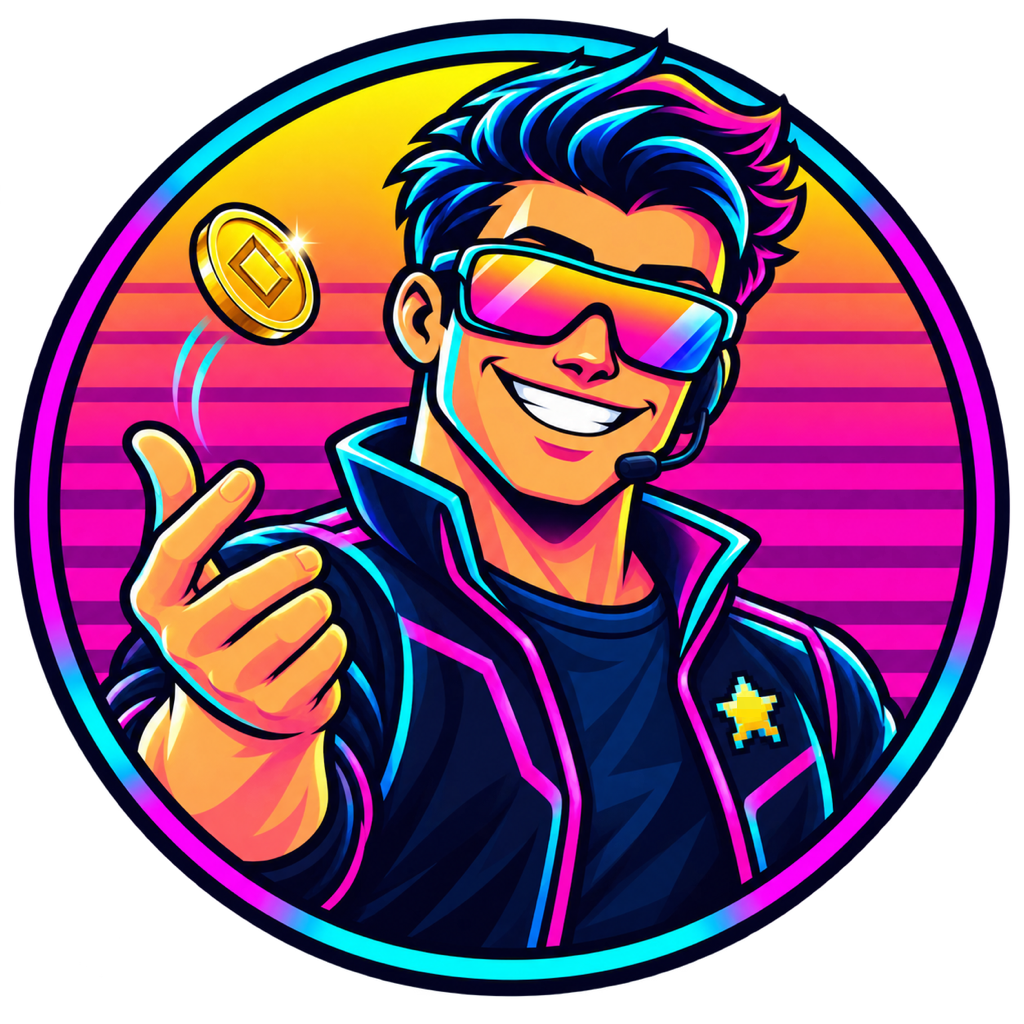
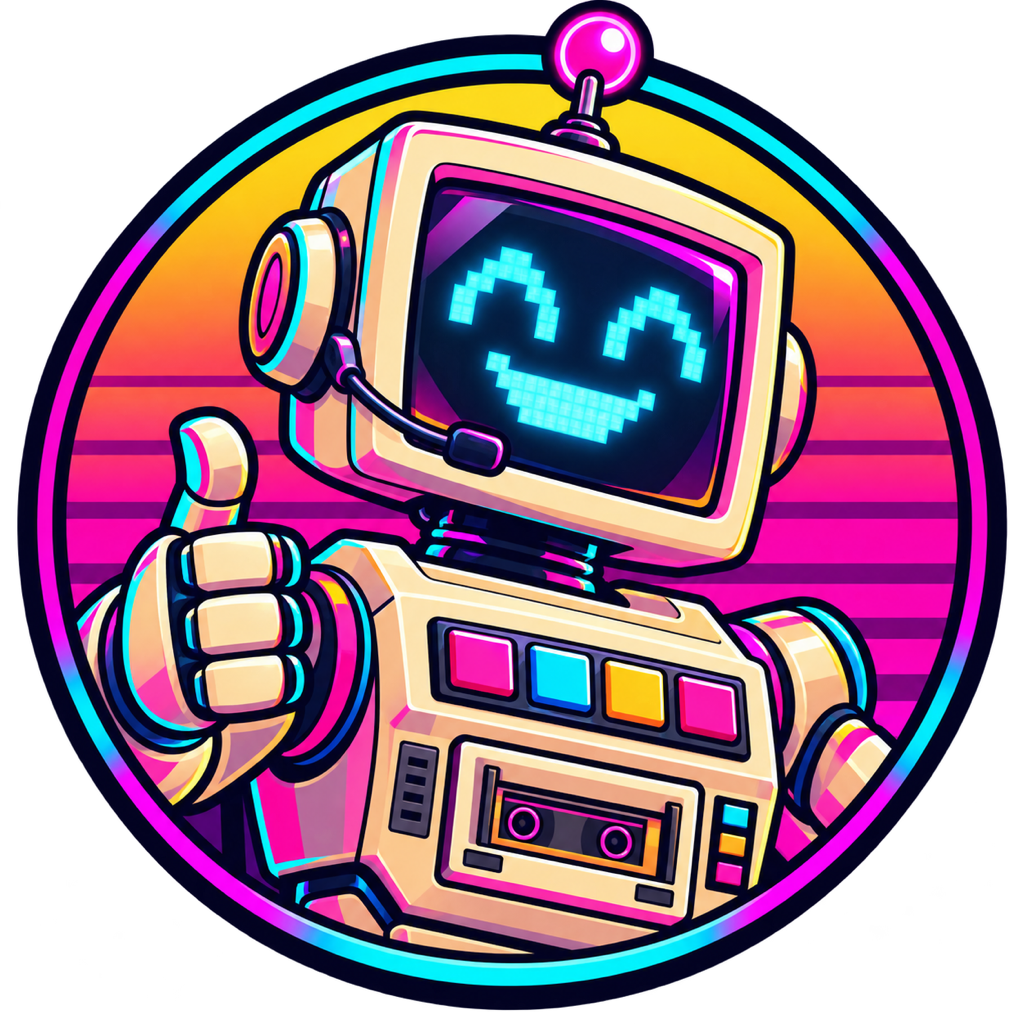
feat(gtmgym): the game master is a robot
CRT-head 80s toy robot (our own design), reads at avatar size and
makes it obvious the host is the AI, not a sixth coach.

diff --git a/components/gym/gym-coach-select.tsx b/components/gym/gym-coach-select.tsx
@@ -52,18 +52,18 @@ export function GymSecretCoach() {
     >
       {secret ? (
         <>
-          <Image src="/gym/game/game-master.webp" alt="The Game Master" width={120} height={120} className="h-20 w-20 md:h-24 md:w-24 shrink-0" />
+          <Image src="/gym/game/game-master-bot.webp" alt="The Game Master" width={120} height={120} className="h-20 w-20 md:h-24 md:w-24 shrink-0" />
           <div className="min-w-0 flex-1">
             <p className="font-osd text-[17px] leading-none text-[var(--gym-yellow)]">SECRET CHARACTER UNLOCKED</p>
             <h3 className="mt-1.5 font-display text-[17px] md:text-[20px] uppercase leading-tight">The Game Master</h3>
             <p className="mt-1 text-[13.5px] leading-relaxed text-muted-foreground max-w-[62ch]">
-              The AI host. Has watched every minute of every session, never sleeps, never gloats, and always shows you the tape.
+              The AI host, a robot. Has watched every minute of every session, never sleeps, never gloats, and always shows you the tape.
             </p>
           </div>
           <div className="hidden md:block w-[220px] space-y-1.5 shrink-0">
             <StatBar label="Recall" value={5} tone="yellow" />
             <StatBar label="Citations" value={5} tone="yellow" />
-            <StatBar label="Trash talk" value={0} tone="yellow" />
+            <StatBar label="Beeps" value={4} tone="yellow" />
           </div>
         </>
       ) : (

diff --git a/components/gym/gym-ask-hero.tsx b/components/gym/gym-ask-hero.tsx
@@ -144,7 +144,7 @@ export function GymAskHero({ sessions, hours, onAsk }: GymAskHeroProps) {
       <div className="relative z-10 flex items-end gap-3 mb-4 md:mb-5 motion-safe:animate-in motion-safe:fade-in motion-safe:slide-in-from-bottom-2 motion-safe:duration-500">
         <div className="relative shrink-0">
           <Image
-            src="/gym/game/game-master.webp"
+            src="/gym/game/game-master-bot.webp"
             alt="The GTM Game master"
             width={76}
             height={76}

diff --git a/components/gym/gym-plan.tsx b/components/gym/gym-plan.tsx
@@ -400,7 +400,7 @@ function GymSet({
       <div className="rounded-[calc(1.1rem-2px)] bg-[var(--gym-night-2)] p-4 md:p-5">
         <div className="flex items-center gap-2.5 mb-2">
           <Image
-            src={coach ? `/gym/game/cast/${coach.slug}.webp` : "/gym/game/game-master.webp"}
+            src={coach ? `/gym/game/cast/${coach.slug}.webp` : "/gym/game/game-master-bot.webp"}
             alt=""
             width={32}
             height={32}

diff --git a/app/(print)/plan/[conversationId]/page.tsx b/app/(print)/plan/[conversationId]/page.tsx
@@ -277,7 +277,7 @@ export default async function PlanPage({
           </div>
           <div className="flex items-center gap-3">
             <Image
-              src={coach ? `/gym/game/cast/${coach.slug}.webp` : "/gym/game/game-master.webp"}
+              src={coach ? `/gym/game/cast/${coach.slug}.webp` : "/gym/game/game-master-bot.webp"}
               alt=""
               width={56}
               height={56}

diff --git a/app/(default)/og/route.tsx b/app/(default)/og/route.tsx
@@ -323,7 +323,7 @@ export async function GET(request: Request) {
     loadGoogleFont("Space Grotesk", text, 500),
     loadGoogleFont("VT323", text),
     loadImage(`${origin}/gym/game/logo-og.png`),
-    loadImage(`${origin}/gym/game/game-master-og.png`),
+    loadImage(`${origin}/gym/game/game-master-bot-og.png`),
     loadImage(`${origin}/gym/og-bg.jpg`),
   ]);
 
